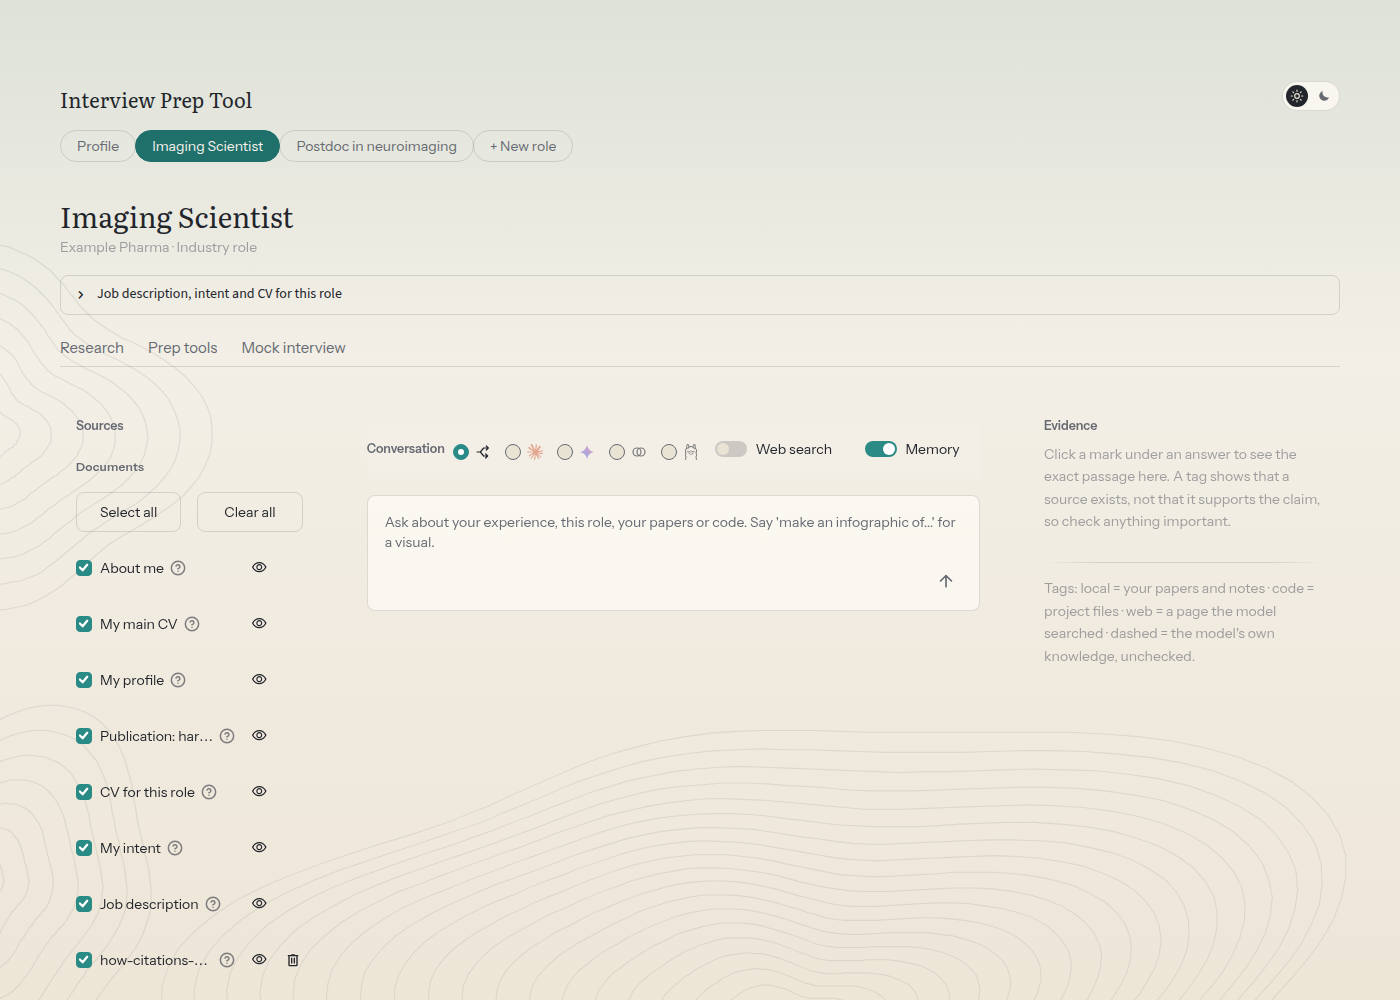
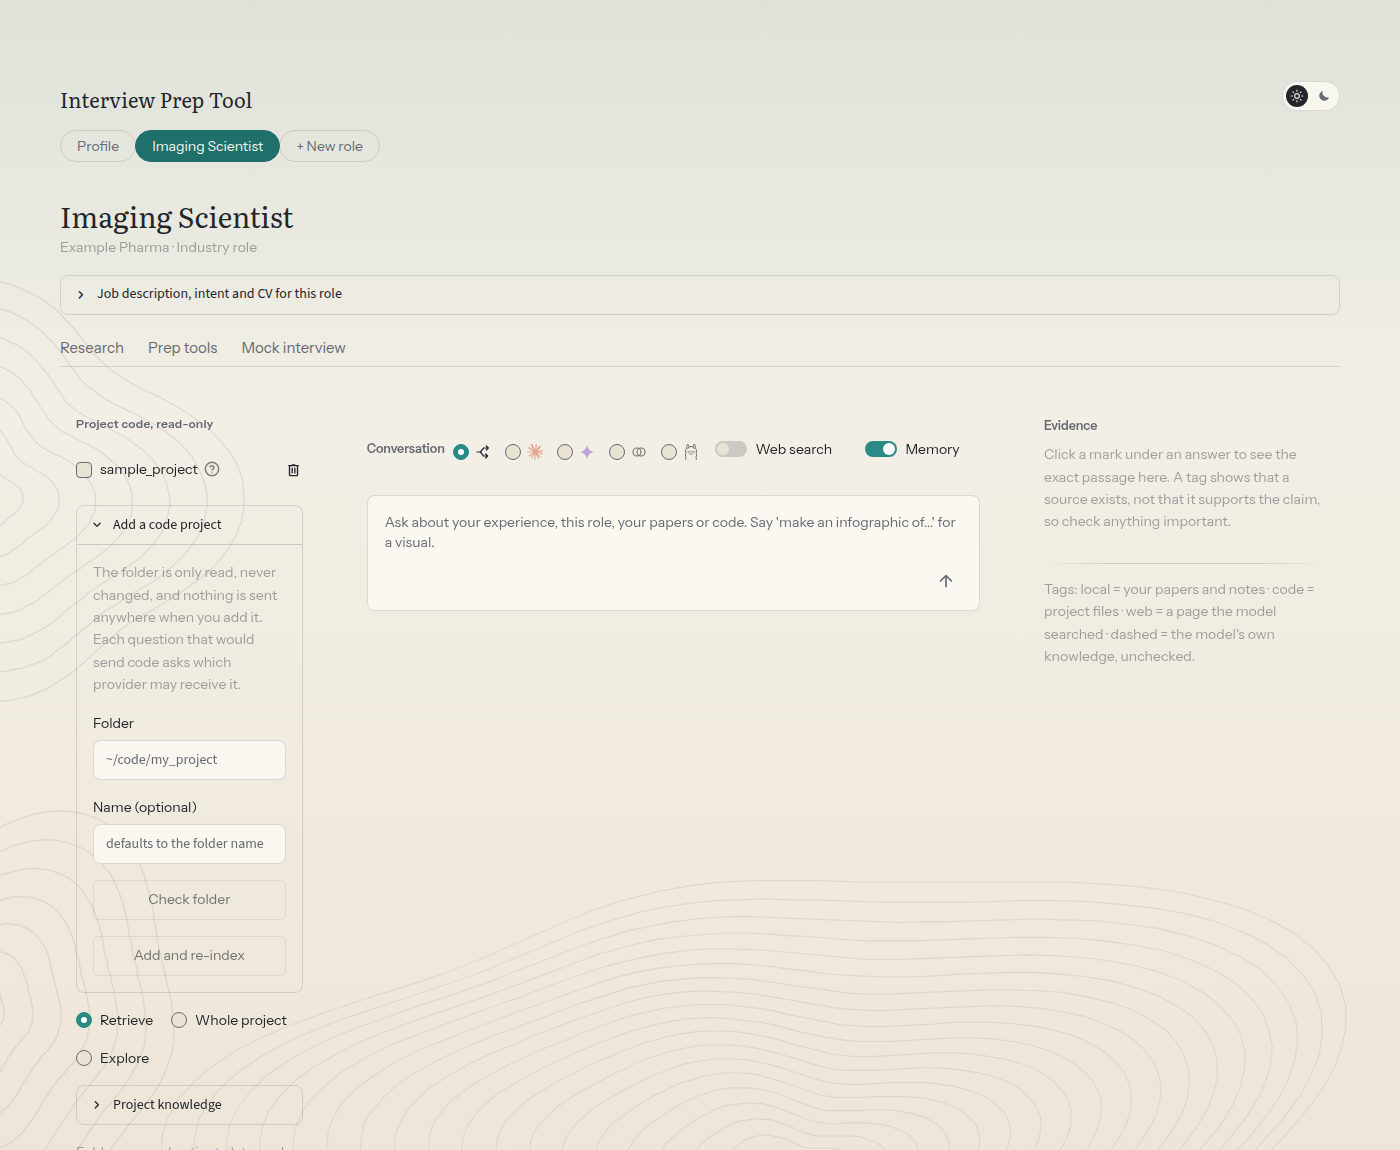
README: document extraction, add-project and deep read; new screenshots
Features, the file table, how the app is organised, the tests section, the
security note (lower-priority items still open), the Ollama row, and two new
screenshots (made-up sample data) of the review section and the Add a code
project box.

Claude-Session: https://claude.ai/code/session_01Vv5NR9zSe9c6XQPZUzzsN4

diff --git a/README.md b/README.md
@@ -18,9 +18,9 @@ It runs on your own computer. Your documents stay in a folder here, and nothing 
 
 **It never invents your experience.** Everything about you has to come from your documents and is marked with the document it came from. General advice is marked `model knowledge`. Anything your documents do not cover is shown as a `GAP:` line for you to fill in. Figures that appear in a draft but in none of your documents are flagged for you to check. Models can still make mistakes, so read every draft before you use it.
 
-![The Profile page](docs/screenshot-profile.png)
+![The Profile page, with the review of what was found](docs/screenshot-profile.png)
 
-**A role's page:** sources on the left, the conversation in the middle, the evidence for each citation on the right. The tabs above switch between Research, Prep tools and Mock interview.
+**A role's page:** your sources and code projects on the left, with the **Add a code project** box, the conversation in the middle, and the evidence for each citation on the right. The tabs above switch between Research, Prep tools and Mock interview.
 
 ![A role's Research page](docs/screenshot-role.png)
 
@@ -37,7 +37,7 @@ These screenshots use made-up sample data and the offline demo mode.
 - Questions answered from your own documents, with every claim tagged by where it came from: `local` (your files, with page numbers), `code` (file and line range), `web` (a page the model searched) or `model knowledge`. Click a tag to read the exact passage.
 - Claude (through your Claude Code login or an API key), Gemini and Ollama. Auto picks one, you can force one, or compare Claude and Gemini side by side.
 - Optional web search, conversation memory, saved chats, source preview, and adding papers by upload or link.
-- Project code, read-only: Retrieve, Whole project and Explore modes, project maps, and a lasting "project knowledge" document. Code is only sent after you choose the provider each time.
+- Project code, read-only: add a project from the Sources panel (no settings file to edit), then ask with Retrieve, Whole project or Explore. A **deep read** builds a lasting "project knowledge" document, even for a large project: it is read in areas by several workers, by Claude or by an Ollama model you choose. Code is only sent after you choose the provider each time.
 - Infographics through Gemini's image model.
 
 **🎤 Interview preparation, per role**
@@ -53,11 +53,11 @@ Planned, not built yet: voice for the mock interview.
 
 ## 🧭 How it is organised
 
-1. **Profile** (the first tab): upload your CV (PDF, Word, Markdown or text), write a short "about you" and add publications. Press **Build my profile** and Claude writes a structured profile (experience, skills, publications, motivation) from them. Read it and correct anything wrong. It leaves out contact details. All roles share this profile.
+1. **Profile** (the first tab): upload your CV (PDF, Word, Markdown or text), write a short "about you" and add publications. Each time you save one, Claude reads it and lists what it found under **Review what was found**: positions, work, results, publications, credentials and goals, each with the exact words of your file it came from. You accept, edit or remove each item, and only accepted items go to the prep tools. Anything Claude gave that is not in your file is set aside. Missing dates and results are listed as gaps and never filled in. You can also press **Build my profile** for a written profile. All roles share your profile.
 2. **A tab per role** (**+ New role**): the title, the company, whether it is an **Industry** or **Academic** role, the pasted job description (saved as a Markdown file), your intent, and the CV for this role (or your main one).
 3. Inside a role, pick **Research**, **Prep tools** or **Mock interview**. Each role keeps its own chats, results and interviews. Prep tools and the mock interview use Claude through your Claude Code login (the `claude` command) and need a built profile or CV and a job description.
 
-Your private files live in `workspace/` (git-ignored): `workspace/profile/`, `workspace/roles/<role>/` and `workspace/prep/<role>/`. Prep results and mock interviews are saved there as Markdown, and are not searched by Research. Deleting a role deletes them.
+Your private files live in `workspace/` (git-ignored): `workspace/profile/` (your files, the review items in `facts.json`, and the accepted ones in `facts.md`), `workspace/roles/<role>/` and `workspace/prep/<role>/`. Prep results and mock interviews are saved there as Markdown, and are not searched by Research. Deleting a role deletes them.
 
 ## 🔎 What the research part does
 
@@ -97,7 +97,7 @@ You need at least one of these. Without any, tick **Use offline demo models** un
 | **Claude** with your login | Install Claude Code and log in. Nothing else to set up. |
 | **Claude** with an API key | Put `ANTHROPIC_API_KEY=...` in `.env` |
 | **Gemini** | Put `GEMINI_API_KEY=...` in `.env` |
-| **Ollama** (local) | Install Ollama and run `ollama pull <model>` |
+| **Ollama** (local) | Install Ollama and run `ollama pull <model>`. It can answer questions and read a code project in the deep read |
 
 To use keys, copy the template and fill it in yourself:
 
@@ -230,7 +230,7 @@ Web search is off by default, so nothing uses the API unless you switch it on. T
 
 ## 🔒 Privacy and safety
 
-> **A note on security.** Neither of us is a security expert or a software engineer, so we are not sure the tool has no leaks. The security checks were done by Claude, an AI model. It read the code and reported problems, and the problems it found were fixed. Claude did not attack the running app, and no human security expert has checked it. This is not a professional security audit. Please do not rely on it for highly sensitive data, and tell us if you find a problem.
+> **A note on security.** Neither of us is a security expert or a software engineer, so we are not sure the tool has no leaks. The security checks were done by Claude, an AI model. It read the code and reported problems, and the most serious ones it found were fixed. Some lower-priority ones are still open: the `claude` command reads your own Claude settings, the search index is stored with `pickle`, packages are not pinned, the passcode lockout is shared by everyone and has no minimum length, and Wi-Fi traffic is not encrypted. Claude did not attack the running app, and no human security expert has checked it. This is not a professional security audit. Please do not rely on it for highly sensitive data, and tell us if you find a problem.
 
 The points below are enforced in code and covered by automated tests, which were also written with Claude.
 
@@ -276,6 +276,10 @@ The points below are enforced in code and covered by automated tests, which were
 | `app.py`, `run_ui.sh` | Web interface (Streamlit) |
 | `prep_ui.py` | Profile, role and prep screens |
 | `candidate.py` | Profile, roles, uploads and what the search sees of them |
+| `extract.py` | Reads each saved file into organised, checkable items for review (masking, quote check, facts file) |
+| `projects.py` | Adding and removing code projects from the app |
+| `deepread.py` | The deep read: a large project read in areas by workers, then merged |
+| `safetext.py`, `webfetch.py` | Removing images from model text; fetching pasted links safely |
 | `prep.py`, `mock.py` | Prep tools and the mock interview: prompts, checks and saved results |
 | `ask.py` | Command line |
 | `engine.py` | Retrieval, routing, consent gate, providers, citations, and the code modes |
@@ -297,9 +301,9 @@ The points below are enforced in code and covered by automated tests, which were
 .venv/bin/python -m pytest tests
 ```
 
-The tests are offline and need no keys. They cover the profile, roles and uploads, the prep tools and mock interview (with a scripted stand-in for the model), the check for figures not in your documents, and also source selection and exclusions, page numbers and line ranges, citation tagging, routing, memory, the write limits, secret redaction, the consent gate (for every code mode), the project map and retrieval, whole-project trimming, the Explore copy and its checked citations, project knowledge, and the web app run headlessly.
+The tests are offline and need no keys. They cover the profile, roles and uploads, the prep tools and mock interview (with a scripted stand-in for the model), the check for figures not in your documents, and also source selection and exclusions, page numbers and line ranges, citation tagging, routing, memory, the write limits, secret redaction, the consent gate (for every code mode), the project map and retrieval, whole-project trimming, the Explore copy and its checked citations, project knowledge, the deep read (areas, resuming, updates, Claude or Ollama), adding code projects and the folder checks, the structured extraction and review, and the web app run headlessly.
 
-**Not covered by tests:** how good the real model's prep drafts and feedback are (the tests use a scripted stand-in, so they check what the model is given and what is kept, not what it writes), live calls to Claude, Gemini and Ollama, web search citation parsing, and Gemini image generation. For explore, the isolation was tried once live: a model was asked to read canary files placed in the parent folder, a sibling folder, the tool folder and the project root, and to run a shell command. It could do none of it. Building project knowledge was also tried once live on a small invented project. Neither check is part of the automatic tests, since they need a Claude login. The web app tests set the consent answer directly and do not click the dialog.
+**Not covered by tests:** how well a real Claude or Ollama model reads real documents and real code in the extraction and the deep read, the deep read window's provider choice inside the test harness, how good the real model's prep drafts and feedback are (the tests use a scripted stand-in, so they check what the model is given and what is kept, not what it writes), live calls to Claude, Gemini and Ollama, web search citation parsing, and Gemini image generation. For explore, the isolation was tried once live: a model was asked to read canary files placed in the parent folder, a sibling folder, the tool folder and the project root, and to run a shell command. It could do none of it. Building project knowledge was also tried once live on a small invented project. Neither check is part of the automatic tests, since they need a Claude login. The web app tests set the consent answer directly and do not click the dialog.
 
 ## ⚠ Limits
 
